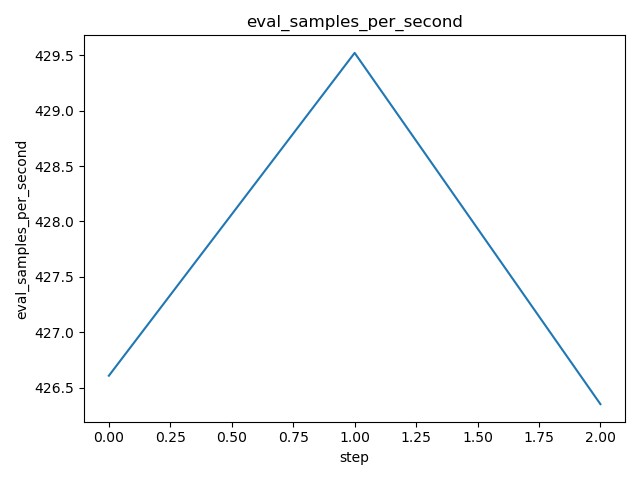
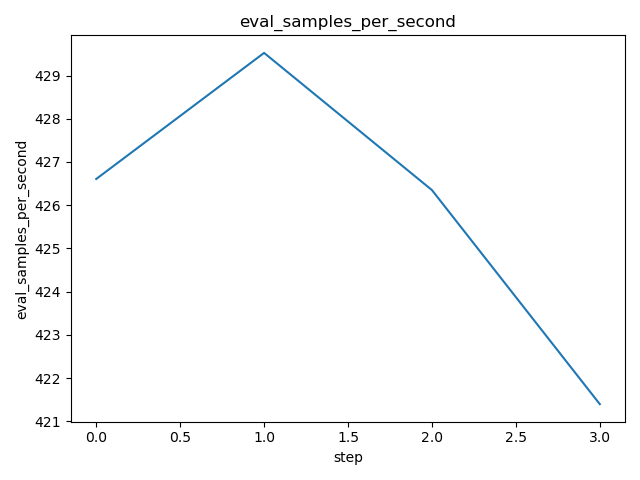
dvc: commit experiment 1665d594741a1bc741fef9ac71c716f636b612016c099de1ed052bbf424da1d2

diff --git a/data/ogt_protein_classifier/dvclive/report.md b/data/ogt_protein_classifier/dvclive/report.md
@@ -4,7 +4,7 @@ metrics.json
 
 |   loss |   learning_rate |   epoch |   eval_loss |   eval_f1 |   eval_accuracy |   eval_matthew |   eval_runtime |   eval_samples_per_second |   eval_steps_per_second |   step |
 |--------|-----------------|---------|-------------|-----------|-----------------|----------------|----------------|---------------------------|-------------------------|--------|
-| 0.6935 |     4.33333e-05 |     0.3 |    0.689075 |  0.661304 |        0.593405 |       0.236571 |        75.5342 |                    426.35 |                   2.224 |      2 |
+| 0.6905 |     4.08333e-05 |     0.4 |    0.682024 |   0.64883 |        0.488511 |       0.106196 |        76.4217 |                   421.399 |                   2.198 |      3 |
 
 ![static/eval_steps_per_second](static/eval_steps_per_second.png)
 
